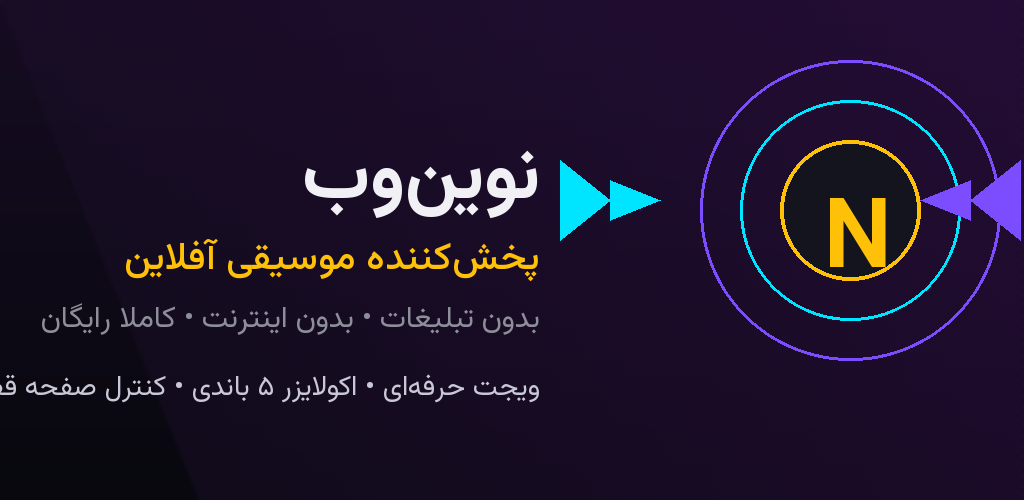
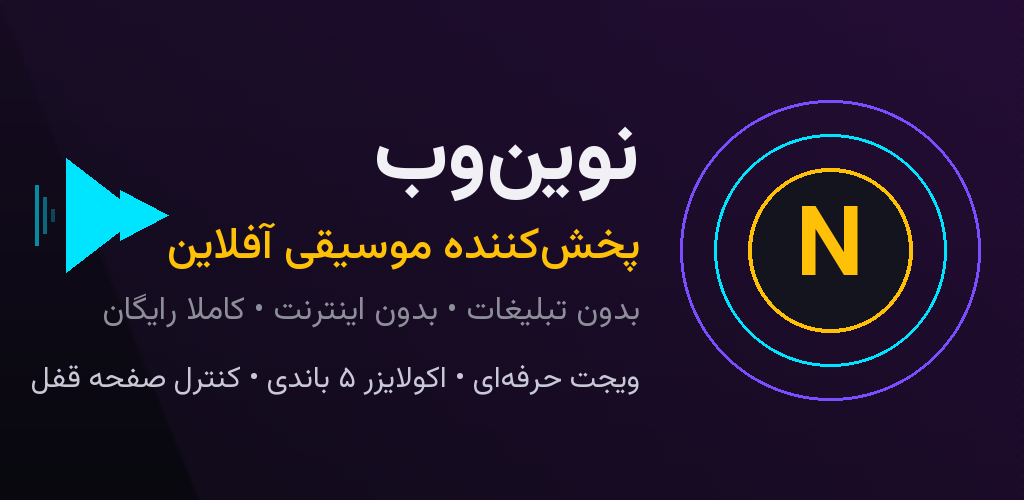
style(store): make the store assets production-ready
- Feature graphic rebuilt around the brand wordmark: the N mark, title, subtitle
  and feature lines are right-aligned in their own half and every string is
  auto-fitted, so nothing is clipped by the 1024x500 frame.
- Brand screenshot: no more overlapping badge or under-sized glyph icons; real
  vector icons drawn for the website / rating / update rows.
- Mockups keep the app's Latin digit format for timestamps (3:15, not 3:15-fa) to
  match Locale.US formatting in the player.
- Brand spelled consistently as نوینوب (ZWNJ) in the store assets.

diff --git a/store/generate_store_kit.py b/store/generate_store_kit.py
@@ -62,6 +62,27 @@ def ltr(draw, xy, text, f, fill=TEXT, anchor="la"):
     draw.text(xy, text, font=f, fill=fill, anchor=anchor)
 
 
+def fit_fa(draw, text, max_width, start_size, weight="regular", min_size=18):
+    """Largest Vazirmatn size at which the shaped Persian text fits max_width."""
+    size = start_size
+    while size > min_size:
+        f = font(size, weight)
+        if draw.textlength(fa(text), font=f) <= max_width:
+            return f
+        size -= 2
+    return font(min_size, weight)
+
+
+def fit_ltr(draw, text, max_width, start_size, weight="regular", min_size=18):
+    size = start_size
+    while size > min_size:
+        f = font(size, weight)
+        if draw.textlength(text, font=f) <= max_width:
+            return f
+        size -= 2
+    return font(min_size, weight)
+
+
 def rrect(draw, box, radius, fill=None, outline=None, width=2):
     draw.rounded_rectangle(box, radius=radius, fill=fill, outline=outline, width=width)
 
@@ -445,28 +466,43 @@ def shot_brand(path):
     phone_chrome(img, "نوینوب", "بیشتر از یک پخشکنندهٔ موسیقی")
 
     rrect(d, (48, 250, 1032, 700), 40, fill=SURFACE)
-    rrect(d, (890, 286, 1000, 396), 30, fill=GOLD)
-    ltr(d, (914, 302), "N", font(62, "bold"), (24, 24, 28))
-    rtl(d, (860, 300), "بیشتر از نوینوب", font(36, "bold"), TEXT)
+    rrect(d, (96, 292, 206, 402), 30, fill=GOLD)
+    ltr(d, (124, 312), "N", font(62, "bold"), (24, 24, 28))
+    rtl(d, (856, 300), "بیشتر از نوینوب", font(36, "bold"), TEXT)
     rtl(d, (1000, 372), "اپ را به دوستانتان معرفی کنید؛ ما", font(27), MUTED)
     rtl(d, (1000, 414), "پخشکنندههای سریعتر و بیتبلیغات", font(27), MUTED)
     rtl(d, (1000, 456), "میسازیم و همهچیز رایگان میماند.", font(27), MUTED)
     rrtl = 1000
-    rrect(d, (740, 540, 1000, 640), 30, fill=(GOLD[0] // 5, GOLD[1] // 5, GOLD[2] // 5))
-    rtl(d, (rrtl - 24, 566), "کد تخفیف ندارد، خودش رایگان است 🙂", font(26), GOLD)
+    rrect(d, (596, 546, 1000, 646), 30, fill=(GOLD[0] // 5, GOLD[1] // 5, GOLD[2] // 5))
+    rtl(d, (976, 572), "کد تخفیف ندارد، خودش رایگان است", font(26), GOLD)
 
     links = [
-        ("وبسایت نوینوب", "webnovo.ir • محصولات و پروژهها", "↗"),
-        ("امتیاز دادن به Novo", "با یک امتیاز، دیدهشدن اپ بیشتر میشود", "★"),
-        ("آخرین نسخه", "دانلود جدیدترین فایل نصب از صفحهٔ انتشار", "⬇"),
+        ("وبسایت نوینوب", "webnovo.ir • محصولات و پروژهها", "link"),
+        ("امتیاز دادن به Novo", "با یک امتیاز، دیدهشدن اپ بیشتر میشود", "star"),
+        ("آخرین نسخه", "دانلود جدیدترین فایل نصب از صفحهٔ انتشار", "download"),
     ]
     y = 730
     for title, desc, icon in links:
         rrect(d, (48, y, 1032, y + 150), 30, fill=SURFACE_VAR)
         rtl(d, (920, y + 26), title, font(30, "bold"), TEXT)
         rtl(d, (920, y + 76), desc, font(25), MUTED)
-        d.ellipse((104, y + 44, 172, y + 112), fill=(GOLD[0] // 6, GOLD[1] // 6, GOLD[2] // 6))
-        ltr(d, (116, y + 52), icon, font(44, "bold"), GOLD)
+        cxb, cyb = 138, y + 76
+        d.ellipse((cxb - 34, cyb - 34, cxb + 34, cyb + 34), fill=(GOLD[0] // 6, GOLD[1] // 6, GOLD[2] // 6))
+        if icon == "link":
+            d.line((cxb - 12, cyb + 12, cxb + 12, cyb - 12), fill=GOLD, width=5)
+            d.polygon([(cxb + 12, cyb - 12), (cxb - 2, cyb - 12), (cxb + 12, cyb + 2)], fill=GOLD)
+            d.line((cxb - 12, cyb + 12, cxb - 12, cyb - 2), fill=GOLD, width=5)
+        elif icon == "star":
+            pts = []
+            for k in range(10):
+                ang = -1.5708 + k * 0.6283
+                r = 22 if k % 2 == 0 else 9
+                pts.append((cxb + r * __import__("math").cos(ang), cyb + r * __import__("math").sin(ang)))
+            d.polygon(pts, fill=GOLD)
+        else:
+            d.line((cxb, cyb - 20, cxb, cyb + 12), fill=GOLD, width=5)
+            d.polygon([(cxb - 12, cyb + 8), (cxb + 12, cyb + 8), (cxb, cyb + 24)], fill=GOLD)
+            d.line((cxb - 16, cyb - 26, cxb + 16, cyb - 26), fill=GOLD, width=5)
         y += 172
 
     # poster preview
@@ -509,18 +545,34 @@ def make_feature_graphic():
         d.line((i, 0, i + 200, h), fill=(26 + i // 40, 14, 40 + i // 30), width=2)
     img = img.filter(ImageFilter.GaussianBlur(2))
     d = ImageDraw.Draw(img)
-    d.ellipse((700, 60, 1000, 360), outline=PURPLE, width=3)
-    d.ellipse((740, 100, 960, 320), outline=CYAN, width=3)
-    d.ellipse((780, 140, 920, 280), fill=(20, 20, 30), outline=GOLD, width=4)
-    ltr(d, (824, 168), "N", font(96, "bold"), GOLD)
-    d.polygon([(610, 180), (660, 200), (610, 220)], fill=CYAN)
-    d.polygon([(560, 160), (610, 200), (560, 240)], fill=CYAN)
-    d.polygon([(970, 180), (920, 200), (970, 220)], fill=PURPLE)
-    d.polygon([(1020, 160), (970, 200), (1020, 240)], fill=PURPLE)
-    rtl(d, (540, 120), "نوینوب", font(76, "bold"), TEXT)
-    rtl(d, (540, 230), "پخشکنندهٔ موسیقی آفلاین", font(38, "medium"), GOLD)
-    rtl(d, (540, 296), "بدون تبلیغات • بدون اینترنت • کاملاً رایگان", font(30), MUTED)
-    rtl(d, (540, 366), "ویجت حرفهای • اکولایزر ۵ باندی • کنترل صفحهٔ قفل", font(28), (200, 200, 215))
+
+    # wordmark on the right, copy flowing leftwards (RTL)
+    cx, cy = 830, 250
+    d.ellipse((cx - 150, cy - 150, cx + 150, cy + 150), outline=PURPLE, width=3)
+    d.ellipse((cx - 116, cy - 116, cx + 116, cy + 116), outline=CYAN, width=3)
+    d.ellipse((cx - 82, cy - 82, cx + 82, cy + 82), fill=(20, 20, 30), outline=GOLD, width=4)
+    f_n = font(96, "bold")
+    ltr(d, (cx - d.textlength("N", font=f_n) / 2, cy - 74), "N", f_n, GOLD)
+
+    right = cx - 190
+    f1 = fit_fa(d, "نوینوب", right - 24, 84, "bold")
+    rtl(d, (right, 92), "نوینوب", f1, TEXT)
+    f2 = fit_fa(d, "پخشکنندهٔ موسیقی آفلاین", right - 24, 44, "medium")
+    rtl(d, (right, 212), "پخشکنندهٔ موسیقی آفلاین", f2, GOLD)
+    f3 = fit_fa(d, "بدون تبلیغات • بدون اینترنت • کاملاً رایگان", right - 24, 32)
+    rtl(d, (right, 286), "بدون تبلیغات • بدون اینترنت • کاملاً رایگان", f3, MUTED)
+    f4 = fit_fa(d, "ویجت حرفهای • اکولایزر ۵ باندی • کنترل صفحهٔ قفل", right - 24, 30)
+    rtl(d, (right, 356), "ویجت حرفهای • اکولایزر ۵ باندی • کنترل صفحهٔ قفل", f4, (200, 200, 215))
+
+    # play motif on the left, fully inside the frame
+    d.polygon([(120, 190), (168, 215), (120, 240)], fill=CYAN)
+    d.polygon([(66, 158), (140, 215), (66, 272)], fill=CYAN)
+    lines = Image.new("RGBA", (w, h), (0, 0, 0, 0))
+    ld = ImageDraw.Draw(lines)
+    for i, x in enumerate((36, 44, 52)):
+        ld.line((x, 215 - 30 + i * 12, x, 215 + 30 - i * 12), fill=CYAN + (150 - i * 40,), width=4)
+    img = Image.alpha_composite(img.convert("RGBA"), lines).convert("RGB")
+    d = ImageDraw.Draw(img)
     img.save(os.path.join(OUT, "feature-graphic-1024x500.png"))
     return os.path.join(OUT, "feature-graphic-1024x500.png")
 
